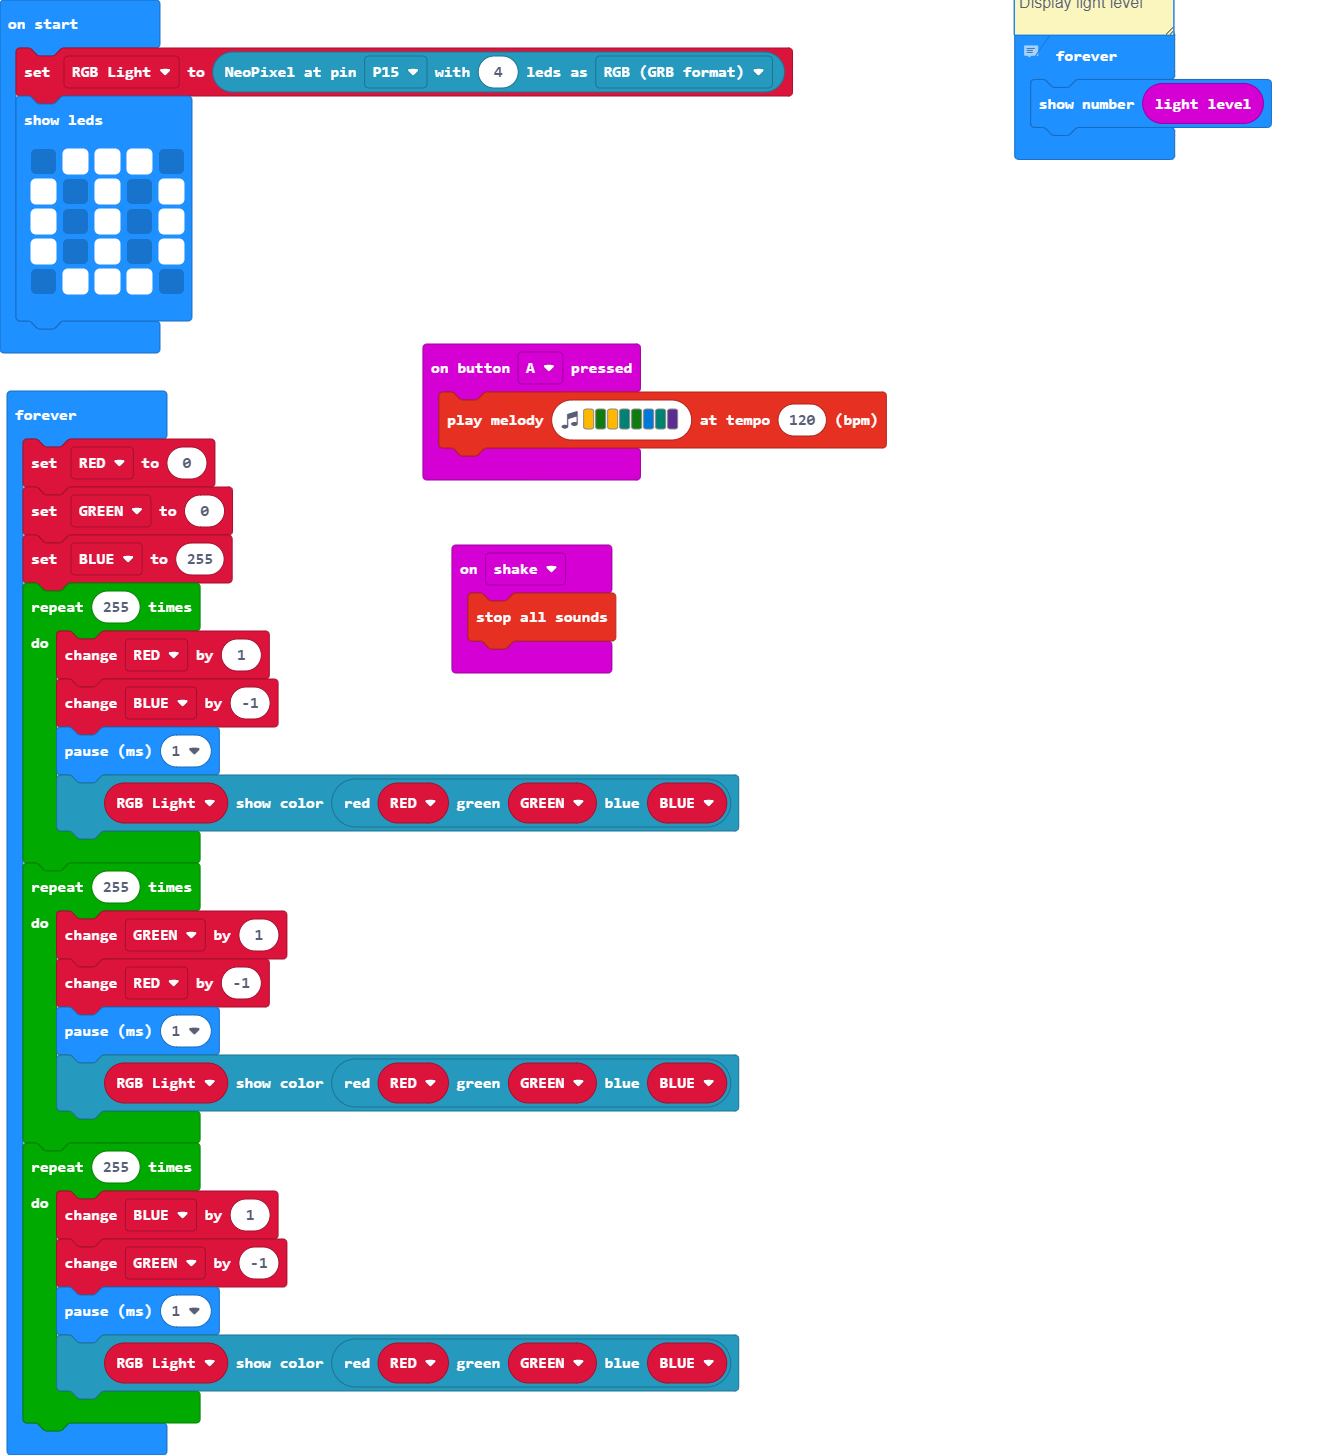
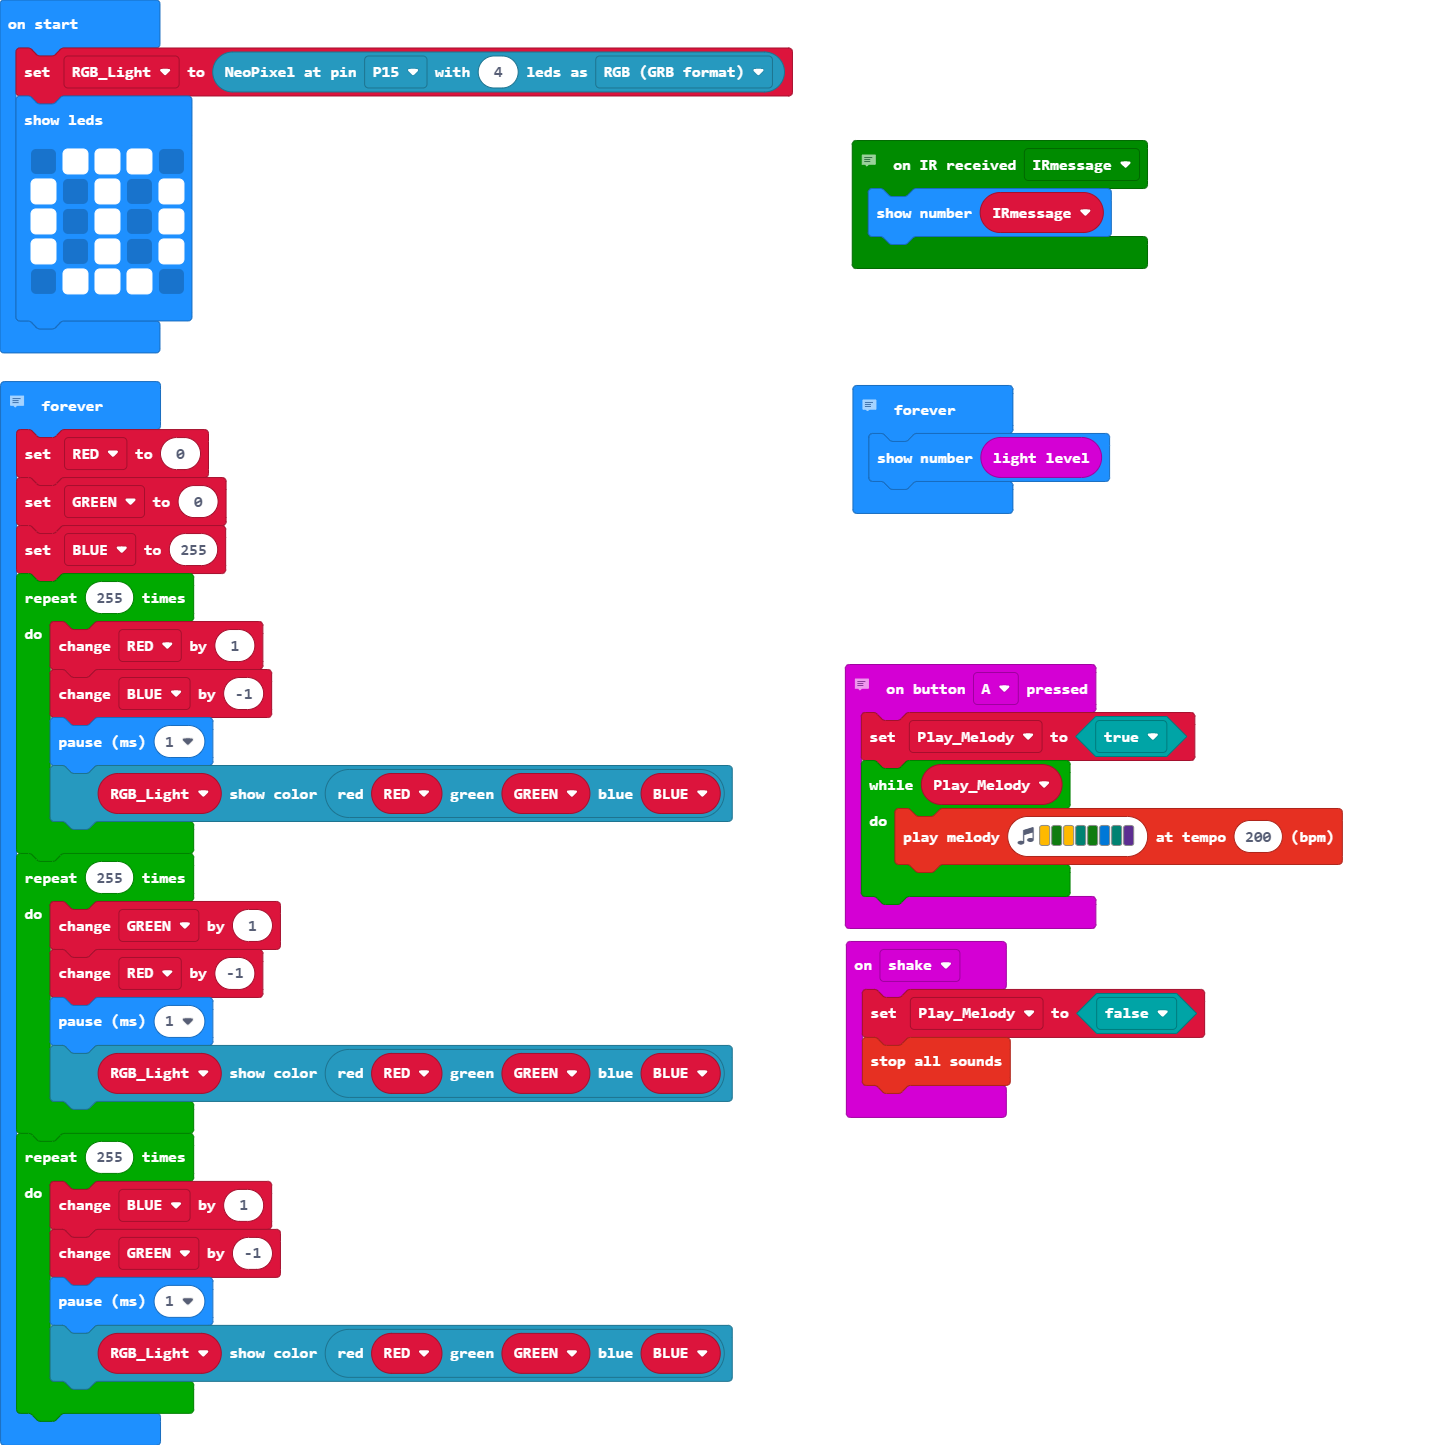
Update main.blocks, main.ts

diff --git a/main.ts b/main.ts
@@ -1,12 +1,22 @@
+// Using the speaker
 input.onButtonPressed(Button.A, function () {
-    music.playMelody("A G A F G E F D ", 120)
+    Play_Melody = true
+    while (Play_Melody) {
+        music.playMelody("A G A F G E F D ", 200)
+    }
 })
 input.onGesture(Gesture.Shake, function () {
+    Play_Melody = false
     music.stopAllSounds()
+})
+// Display IR messages
+maqueen.IR_callbackUser(function (IRmessage) {
+    basic.showNumber(IRmessage)
 })
 let BLUE = 0
 let GREEN = 0
 let RED = 0
+let Play_Melody = false
 let RGB_Light = neopixel.create(DigitalPin.P15, 4, NeoPixelMode.RGB)
 basic.showLeds(`
     . # # # .
@@ -15,10 +25,7 @@ basic.showLeds(`
     # . # . #
     . # # # .
     `)
-// Display light level
-basic.forever(function () {
-    basic.showNumber(input.lightLevel())
-})
+// Colour changing ambient LEDs
 basic.forever(function () {
     RED = 0
     GREEN = 0
@@ -41,4 +48,8 @@ basic.forever(function () {
         basic.pause(1)
         RGB_Light.showColor(neopixel.rgb(RED, GREEN, BLUE))
     }
+})
+// Display light level
+basic.forever(function () {
+    basic.showNumber(input.lightLevel())
 })
